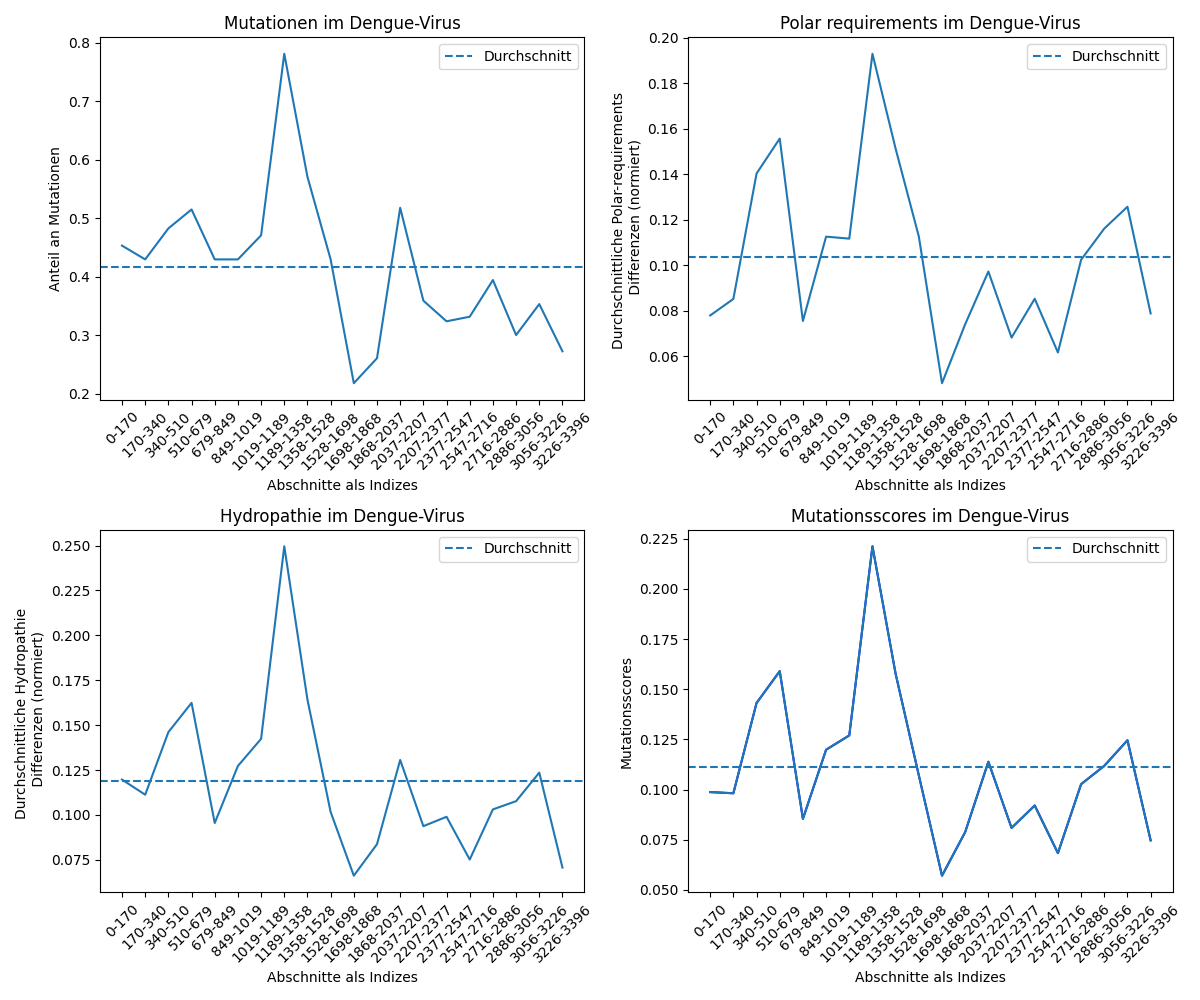
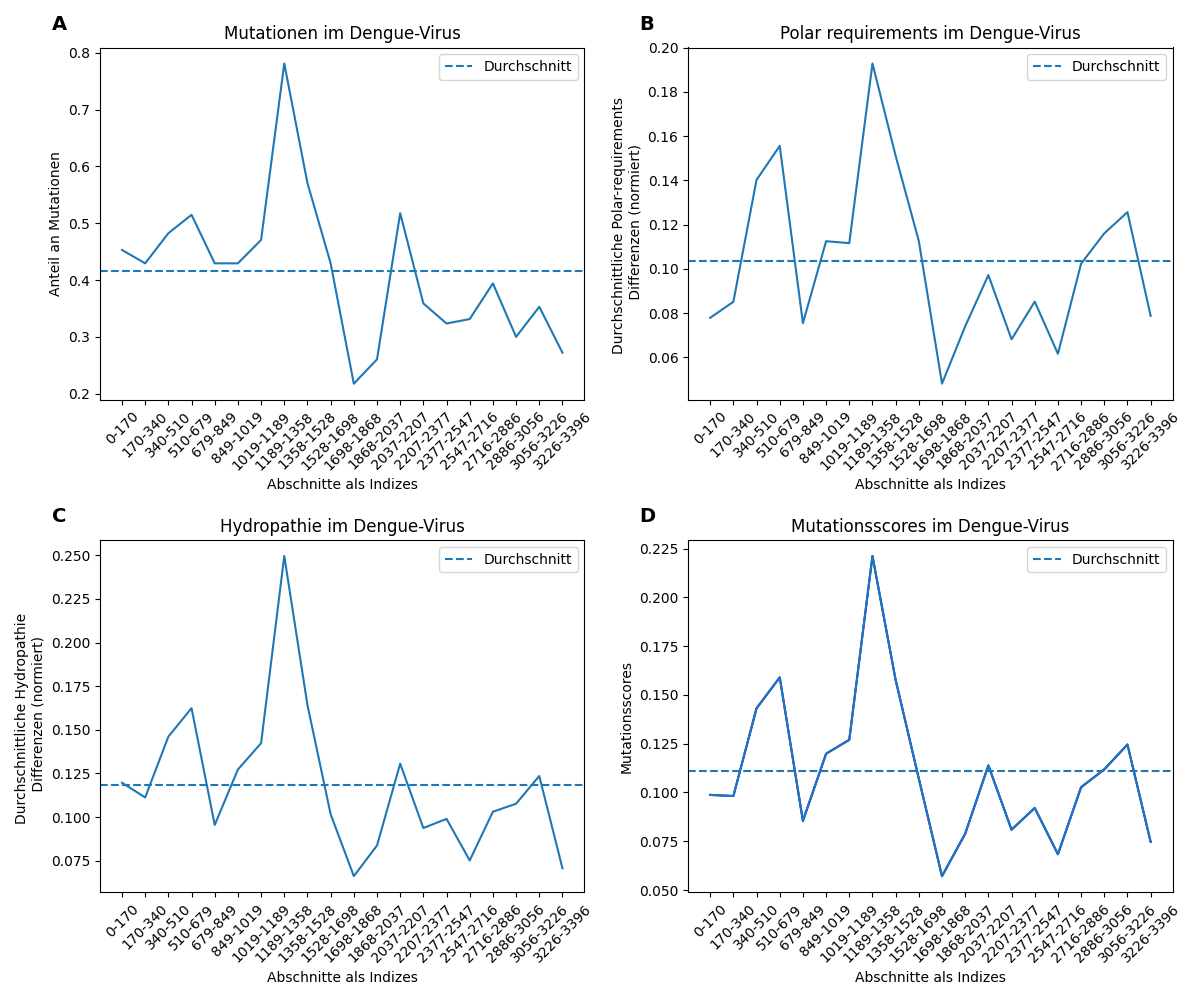
continue writing (backup)

diff --git a/Biopython Test/sequence_analysis.py b/Biopython Test/sequence_analysis.py
@@ -324,6 +324,7 @@ axs[0, 0].set_ylabel('Anteil an Mutationen')
 axs[0, 0].set_title('Mutationen im Dengue-Virus')
 axs[0, 0].legend()
 axs[0, 0].tick_params(axis='x', rotation=45)
+axs[0, 0].text(-0.1, 1.05, 'A', transform=axs[0, 0].transAxes, fontsize=14, fontweight='bold')
 
 # Plot 2: polar requirements über Sequenzen (naiver Ansatz)
 x = [f"{start}-{end}" for start, end in result_automatic_sequence_sections]
@@ -338,6 +339,7 @@ axs[0, 1].set_ylabel('Durchschnittliche Polar-requirements \n Differenzen (normi
 axs[0, 1].set_title('Polar requirements im Dengue-Virus')
 axs[0, 1].legend()
 axs[0, 1].tick_params(axis='x', rotation=45)
+axs[0, 1].text(-0.1, 1.05, 'B', transform=axs[0, 1].transAxes, fontsize=14, fontweight='bold')
 
 # Plot 3: hydropathie über Sequenzen (naiver Ansatz)
 x = [f"{start}-{end}" for start, end in result_automatic_sequence_sections]
@@ -352,6 +354,7 @@ axs[1, 0].set_ylabel('Durchschnittliche Hydropathie \n Differenzen (normiert)')
 axs[1, 0].set_title('Hydropathie im Dengue-Virus')
 axs[1, 0].legend()
 axs[1, 0].tick_params(axis='x', rotation=45)
+axs[1, 0].text(-0.1, 1.05, 'C', transform=axs[1, 0].transAxes, fontsize=14, fontweight='bold')
 
 # Plot 4: kombinierter Score von polar requirements und hydropathie über Sequenzen (naiver Ansatz)
 axs[1, 1].clear()
@@ -367,6 +370,7 @@ axs[1, 1].set_ylabel('Mutationsscores')
 axs[1, 1].set_title('Mutationsscores im Dengue-Virus')
 axs[1, 1].legend()
 axs[1, 1].tick_params(axis='x', rotation=45)
+axs[1, 1].text(-0.1, 1.05, 'D', transform=axs[1, 1].transAxes, fontsize=14, fontweight='bold')
 
 # Adjust layout to prevent overlap
 plt.tight_layout()
@@ -417,28 +421,39 @@ y2 = outer_scope_mutations
 # Durchschnittswerte berechnen
 mean_y1 = np.mean(y1)
 mean_y2 = np.mean(y2)
+# Maxima und Minima berechnen
+max_y1, min_y1 = np.max(y1), np.min(y1)
+max_y2, min_y2 = np.max(y2), np.min(y2)
+# Indizes der Maxima und Minima finden
+max_index_y1 = np.argmax(y1)
+min_index_y1 = np.argmin(y1)
+max_index_y2 = np.argmax(y2)
+min_index_y2 = np.argmin(y2)
 # Diagramm erstellen
 fig, ax1 = plt.subplots()
 # Erste y-Achse plotten
 color = 'tab:red'
 ax1.set_xlabel('Abschnitte als Indizes')
 ax1.set_ylabel('Mutationsscore', color=color)
-ax1.plot(x, y1, color=color)
+ax1.plot(x, y1, color=color, zorder=1)
 ax1.tick_params(axis='y', labelcolor=color)
 # Durchschnittslinie für die erste y-Achse
-ax1.axhline(mean_y1, color=color, linestyle='--', linewidth=1, label='Durchschnitt Mutationsscore')
+ax1.axhline(mean_y1, color=color, linestyle='--', linewidth=1, label='Durchschn. Mutationsscore', zorder=1)
+# Maxima und Minima für die erste y-Achse hinzufügen
+ax1.scatter(x[max_index_y1], max_y1, color='red', zorder=1)  # Punkt für Maximum
+ax1.scatter(x[min_index_y1], min_y1, color='red', zorder=1)  # Punkt für Minimum
 # Zweite y-Achse erstellen
 ax2 = ax1.twinx()  # Zweite y-Achse teilt sich die x-Achse mit der ersten
 # Zweite y-Achse plotten
 color = 'tab:blue'
 ax2.set_ylabel('Anteil an Mutationen', color=color)
-ax2.plot(x, y2, color=color)
+ax2.plot(x, y2, color=color, zorder=1)
 ax2.tick_params(axis='y', labelcolor=color)
 # Durchschnittslinie für die zweite y-Achse
-ax2.axhline(mean_y2, color=color, linestyle='--', linewidth=1, label='Durchschnitt Mutationen')
-# Legende hinzufügen
-ax1.legend(loc='upper left')
-ax2.legend(loc='upper right')
+ax2.axhline(mean_y2, color=color, linestyle='--', linewidth=1, label='Durchschn. Mutationen', zorder=1)
+# Maxima und Minima für die zweite y-Achse hinzufügen
+ax2.scatter(x[max_index_y2], max_y2, color='blue', zorder=1)  # Punkt für Maximum
+ax2.scatter(x[min_index_y2], min_y2, color='blue', zorder=1)  # Punkt für Minimum
 # x-Achsenbeschriftungen drehen
 ax1.set_xticks(ax1.get_xticks())  # Setzen der x-Achsen-Ticks explizit
 ax1.set_xticklabels(ax1.get_xticklabels(), rotation=45, ha='right')  # Drehen der x-Achsenbeschriftungen
@@ -446,6 +461,9 @@ ax1.set_xticklabels(ax1.get_xticklabels(), rotation=45, ha='right')  # Drehen de
 plt.subplots_adjust(bottom=0.2)  # Mehr Platz unten hinzufügen
 # Titel und Gitternetz hinzufügen
 fig.suptitle('Mutationsscores und Mutationen im Dengue-Virus')
+# Legende hinzufügen (über das gesamte Diagramm)
+fig.legend(loc='upper center', bbox_to_anchor=(0.515, 0.9), ncol=2)
+plt.tight_layout()
 plt.show()
 
 
@@ -483,6 +501,14 @@ y2 = outer_scope_mutations
 # Durchschnittswerte berechnen
 mean_y1 = np.mean(y1)
 mean_y2 = np.mean(y2)
+# Maxima und Minima berechnen
+max_y1, min_y1 = np.max(y1), np.min(y1)
+max_y2, min_y2 = np.max(y2), np.min(y2)
+# Indizes der Maxima und Minima finden
+max_index_y1 = np.argmax(y1)
+min_index_y1 = np.argmin(y1)
+max_index_y2 = np.argmax(y2)
+min_index_y2 = np.argmin(y2)
 # Diagramm erstellen
 fig, ax1 = plt.subplots()
 # Erste y-Achse plotten
@@ -492,7 +518,10 @@ ax1.set_ylabel('Mutationsscore', color=color)
 ax1.plot(x, y1, color=color)
 ax1.tick_params(axis='y', labelcolor=color)
 # Durchschnittslinie für die erste y-Achse
-ax1.axhline(mean_y1, color=color, linestyle='--', linewidth=1, label='Durchschnitt Mutationsscore')
+ax1.axhline(mean_y1, color=color, linestyle='--', linewidth=1, label='Durchschn. Mutationsscore')
+# Maxima und Minima für die erste y-Achse hinzufügen
+ax1.scatter(x[max_index_y1], max_y1, color='red', zorder=5)  # Punkt für Maximum
+ax1.scatter(x[min_index_y1], min_y1, color='red', zorder=5)  # Punkt für Minimum
 # Zweite y-Achse erstellen
 ax2 = ax1.twinx()  # Zweite y-Achse teilt sich die x-Achse mit der ersten
 # Zweite y-Achse plotten
@@ -501,10 +530,10 @@ ax2.set_ylabel('Anteil an Mutationen', color=color)
 ax2.plot(x, y2, color=color)
 ax2.tick_params(axis='y', labelcolor=color)
 # Durchschnittslinie für die zweite y-Achse
-ax2.axhline(mean_y2, color=color, linestyle='--', linewidth=1, label='Durchschnitt Mutationen')
-# Legende hinzufügen
-ax1.legend(loc='upper left')
-ax2.legend(loc='upper right')
+ax2.axhline(mean_y2, color=color, linestyle='--', linewidth=1, label='Durchschn. Mutationen')
+# Maxima und Minima für die zweite y-Achse hinzufügen
+ax2.scatter(x[max_index_y2], max_y2, color='blue', zorder=5)  # Punkt für Maximum
+ax2.scatter(x[min_index_y2], min_y2, color='blue', zorder=5)  # Punkt für Minimum
 # x-Achsenbeschriftungen drehen
 ax1.set_xticks(ax1.get_xticks())  # Setzen der x-Achsen-Ticks explizit
 ax1.set_xticklabels(ax1.get_xticklabels(), rotation=45, ha='right')  # Drehen der x-Achsenbeschriftungen
@@ -512,6 +541,9 @@ ax1.set_xticklabels(ax1.get_xticklabels(), rotation=45, ha='right')  # Drehen de
 plt.subplots_adjust(bottom=0.2)  # Mehr Platz unten hinzufügen
 # Titel und Gitternetz hinzufügen
 fig.suptitle('Mutationsscores und Mutationen mit zufälliger Permutation')
+# Legende hinzufügen (über das gesamte Diagramm)
+fig.legend(loc='upper center', bbox_to_anchor=(0.5, 0.9), ncol=2)
+plt.tight_layout()
 plt.show()
 print(f"Mean mutationscore: {mean_y1}")
 print(f"Mean mutations: {mean_y2}")
@@ -542,6 +574,14 @@ y2 = outer_scope_mutations_per_file
 # Durchschnittswerte berechnen
 mean_y1 = np.mean(y1)
 mean_y2 = np.mean(y2)
+# Maxima und Minima berechnen
+max_y1, min_y1 = np.max(y1), np.min(y1)
+max_y2, min_y2 = np.max(y2), np.min(y2)
+# Indizes der Maxima und Minima finden
+max_index_y1 = np.argmax(y1)
+min_index_y1 = np.argmin(y1)
+max_index_y2 = np.argmax(y2)
+min_index_y2 = np.argmin(y2)
 # Diagramm erstellen
 fig, ax1 = plt.subplots()
 # Erste y-Achse plotten
@@ -551,7 +591,10 @@ ax1.set_ylabel('Mutationsscore', color=color)
 ax1.plot(x, y1, color=color)
 ax1.tick_params(axis='y', labelcolor=color)
 # Durchschnittslinie für die erste y-Achse
-ax1.axhline(mean_y1, color=color, linestyle='--', linewidth=1, label='Durchschnitt Mutationsscore')
+ax1.axhline(mean_y1, color=color, linestyle='--', linewidth=1, label='Durchschn. Mutationsscore')
+# Maxima und Minima für die erste y-Achse hinzufügen
+ax1.scatter(x[max_index_y1], max_y1, color='red', zorder=5)  # Punkt für Maximum
+ax1.scatter(x[min_index_y1], min_y1, color='red', zorder=5)  # Punkt für Minimum
 # Zweite y-Achse erstellen
 ax2 = ax1.twinx()  # Zweite y-Achse teilt sich die x-Achse mit der ersten
 # Zweite y-Achse plotten
@@ -560,10 +603,10 @@ ax2.set_ylabel('Anteil an Mutationen', color=color)
 ax2.plot(x, y2, color=color)
 ax2.tick_params(axis='y', labelcolor=color)
 # Durchschnittslinie für die zweite y-Achse
-ax2.axhline(mean_y2, color=color, linestyle='--', linewidth=1, label='Durchschnitt Mutationen')
-# Legende hinzufügen
-ax1.legend(loc='upper left')
-ax2.legend(loc='upper right')
+ax2.axhline(mean_y2, color=color, linestyle='--', linewidth=1, label='Durchschn. Mutationen')
+# Maxima und Minima für die zweite y-Achse hinzufügen
+ax2.scatter(x[max_index_y2], max_y2, color='blue', zorder=5)  # Punkt für Maximum
+ax2.scatter(x[min_index_y2], min_y2, color='blue', zorder=5)  # Punkt für Minimum
 # x-Achsenbeschriftungen drehen
 ax1.set_xticks(ax1.get_xticks())  # Setzen der x-Achsen-Ticks explizit
 ax1.set_xticklabels(ax1.get_xticklabels(), rotation=45, ha='right')  # Drehen der x-Achsenbeschriftungen
@@ -571,6 +614,9 @@ ax1.set_xticklabels(ax1.get_xticklabels(), rotation=45, ha='right')  # Drehen de
 plt.subplots_adjust(bottom=0.48)  # Mehr Platz unten hinzufügen
 # Titel und Gitternetz hinzufügen
 fig.suptitle('Mutationsscores und Mutationen im Dengue-Virus')
+# Legende hinzufügen (über das gesamte Diagramm)
+fig.legend(loc='upper center', bbox_to_anchor=(0.52, 0.9), ncol=2)
+plt.tight_layout()
 plt.show()
 print(f"Mean mutationscore: {mean_y1}")
 print(f"Mean mutations: {mean_y2}")

diff --git a/Thesis/Bachelorarbeit.tex b/Thesis/Bachelorarbeit.tex
@@ -509,7 +509,7 @@ Abbildung \ref{fig:Dengue_virus_scores_and_mutations_bereiche} kombiniert den Mu
   \centering
   \includegraphics[scale=0.65]{Images/Diagramm_Scores_und_Mutationen_Dengue_viren_Bereiche.png}
   \caption{Diagramm zur Analyse der Mutationen und Scores im Dengue-Virus, das die automatische Aufteilung der Sequenzen in 20 gleich gro\ss{}e Bereiche zeigt. Auf der x-Achse sind die 20 Aminos\"aureabschnitte des Dengue-Virus mit Indizes von 0-170 bis 3226-3396 aufgelistet. Die linke (rote) y-Achse zeigt den Mutationsscore an, w\"ahrend die rechte (blaue) y-Achse den Anteil an Mutationen darstellt. Die Daten verdeutlichen, dass Maxima und Minima in denselben Abschnitten auftreten und die beiden Linien sich \"ahnlich verhalten, was auf eine signifikante Korrelation zwischen den analysierten Parametern hinweist.}
-  \label{fig:Dengue_virus_scores_and_mutations_bereiche}
+  \label{fig:Dengue_virus_scores_and_mutations_bereiche} 
 \end{figure}
 
 In der Abbildung \ref{fig:Dengue_virus_scores_and_mutations_bereiche_random} sind die Ergebnisse von der Berechnung des Mutationsscores und dem Anteil an Mutationen f\"ur die zuf\"allige Permutation des Polyproteins zu sehen. Auf der x-Achse sind die 20 Aminos\"aureabschnitte des Dengue-Virus mit Indexen aufgelistet, von 0-170 bis 3226-3396. Es gibt zwei y-Achsen. Auf der linken (roten) y-Achse wird der Mutationsscore angezeigt. Auf der rechten (blauen) y-Achse wird der Anteil an Mutationen angezeigt. Die Daten sind entsprechend gef\"arbt. Das Maximum des Mutationsscores wird in dem Abschnitt 2207-2377 erreicht und betr\"agt 0,14, w\"ahrend das Minimum bei 1698-1868 liegt und 0,08 betr\"agt. Die Spannweite der Werte liegt somit bei 0,06. Der Durchschnittswert der Datenpunkte liegt bei 0,11. Das Maximum des Anteils an Mutationen wird in dem Abschnitt 679-849 erreicht und betr\"agt 0,46, w\"ahrend das Minimum bei 1698-1868 liegt und 0,36 betr\"agt. Die Spannweite der Werte liegt somit bei 0,10. Der Durchschnittswert der Datenpunkte liegt bei 0,42.
